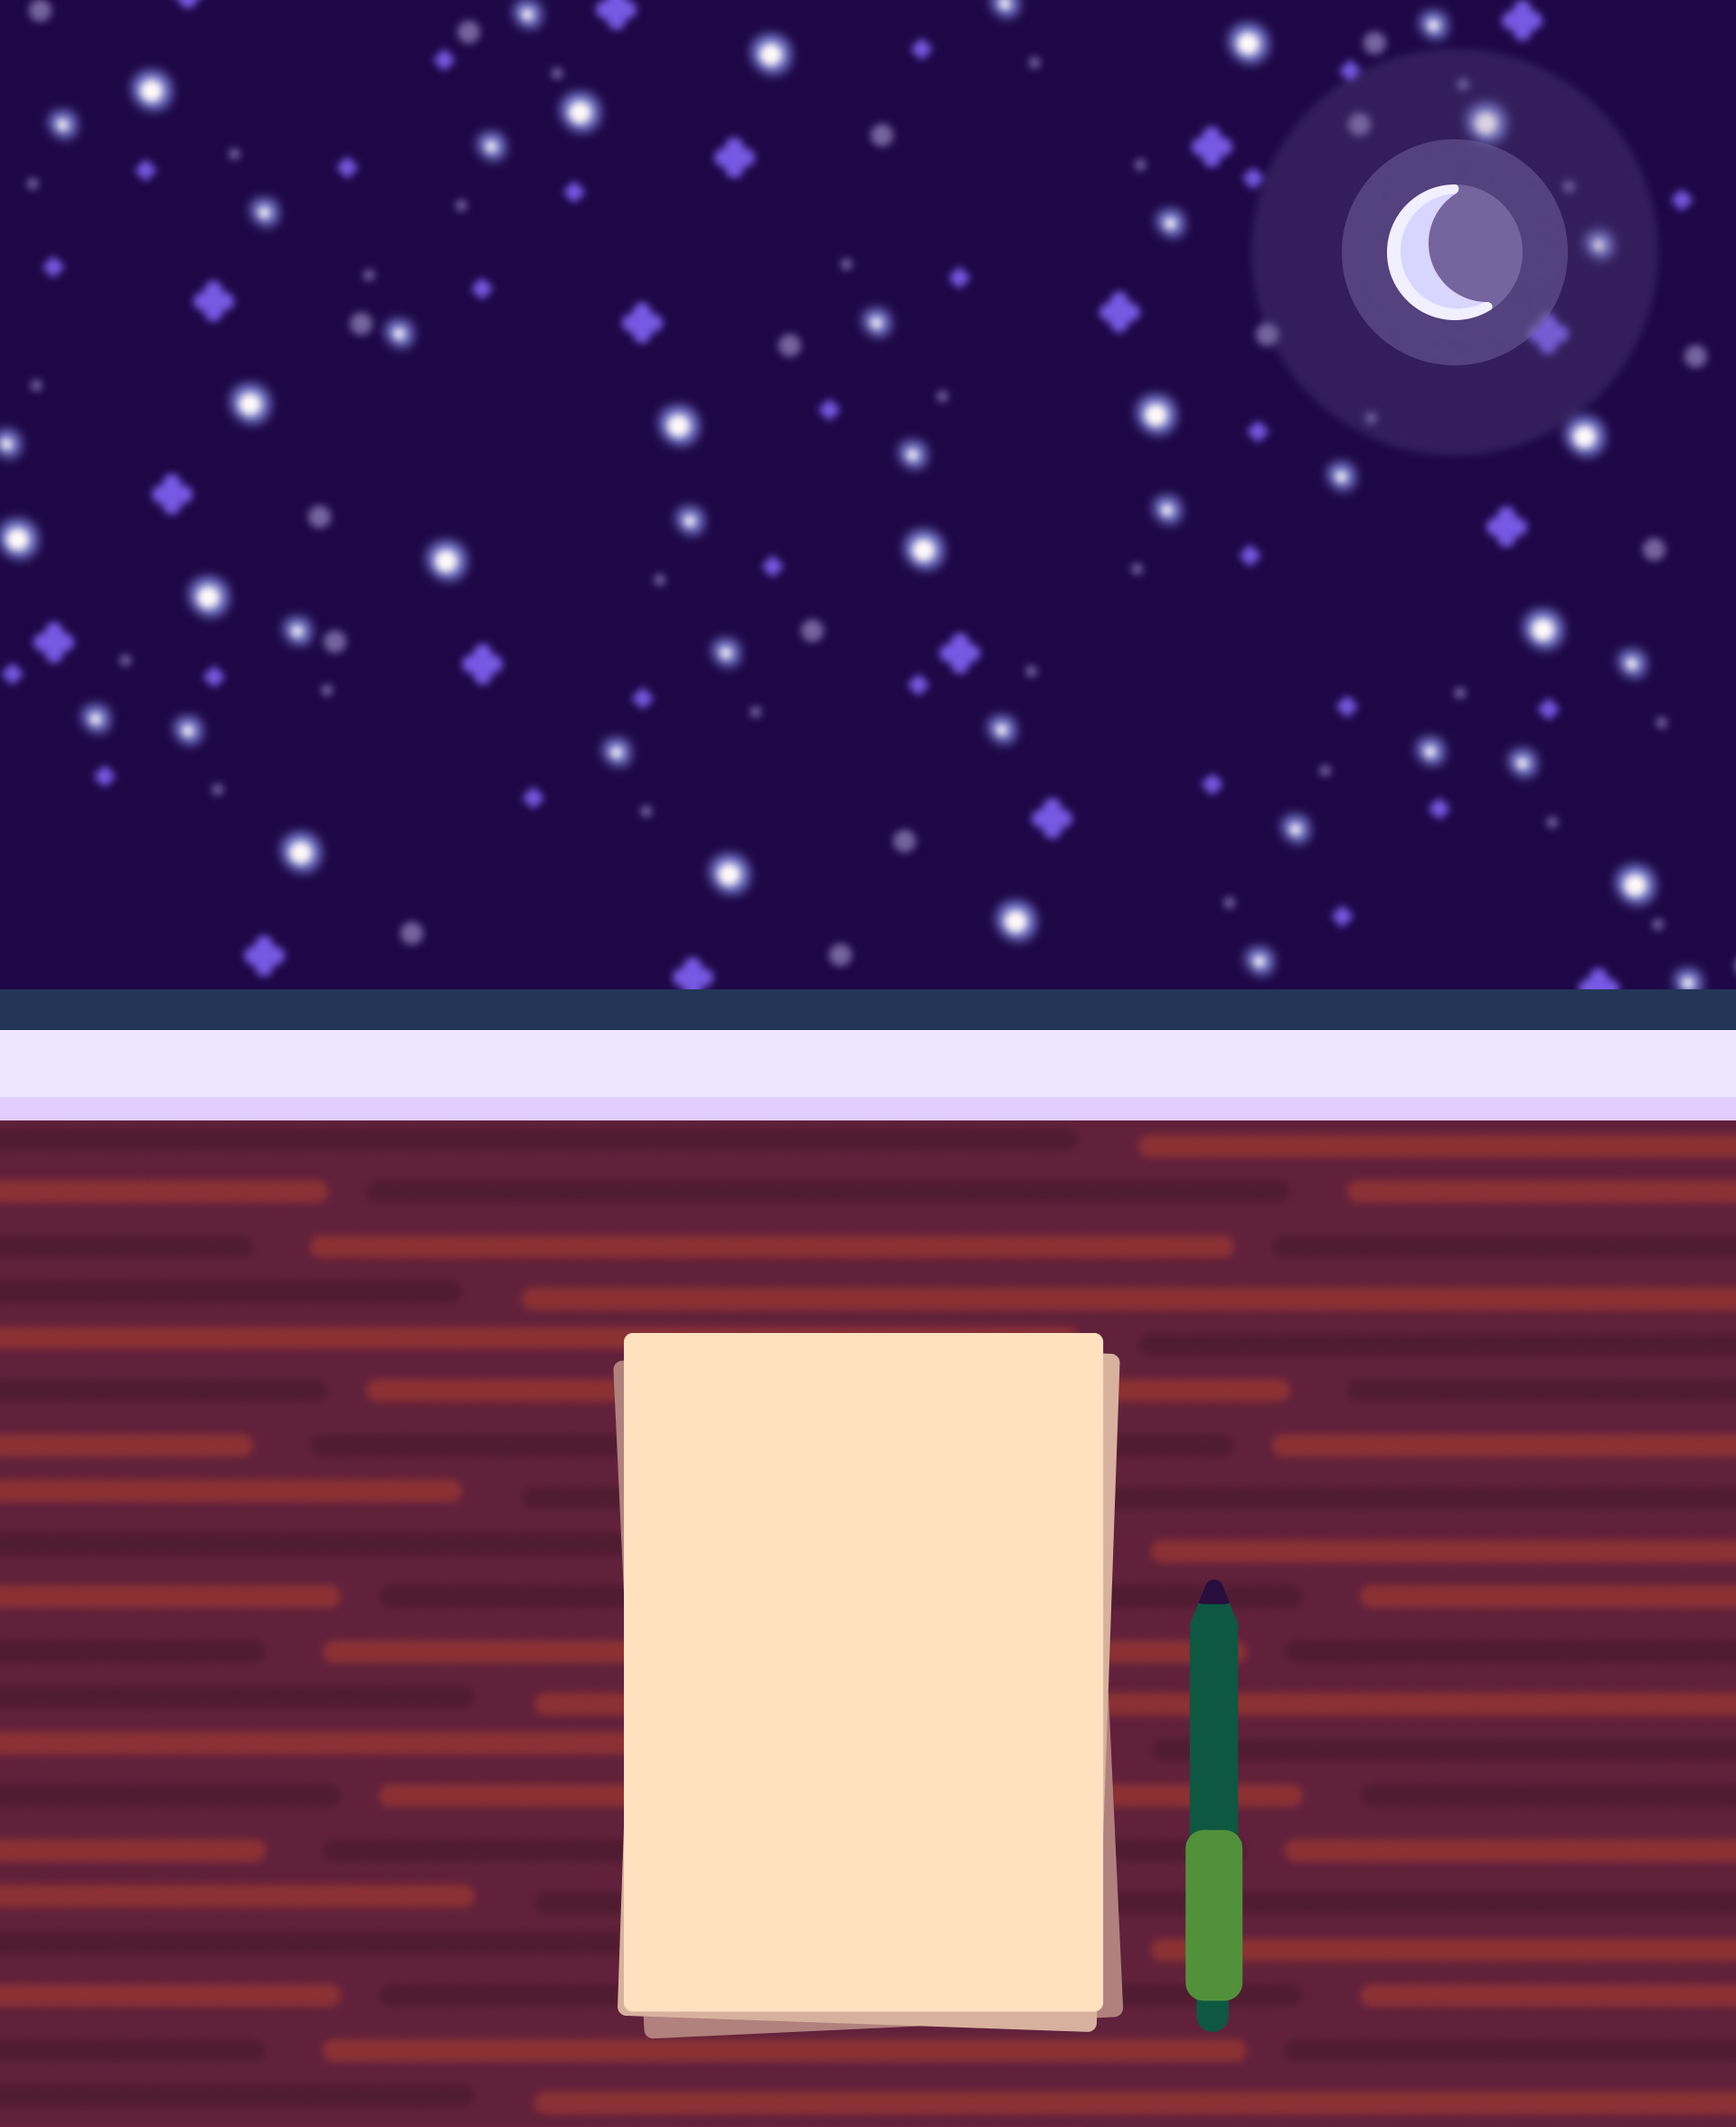
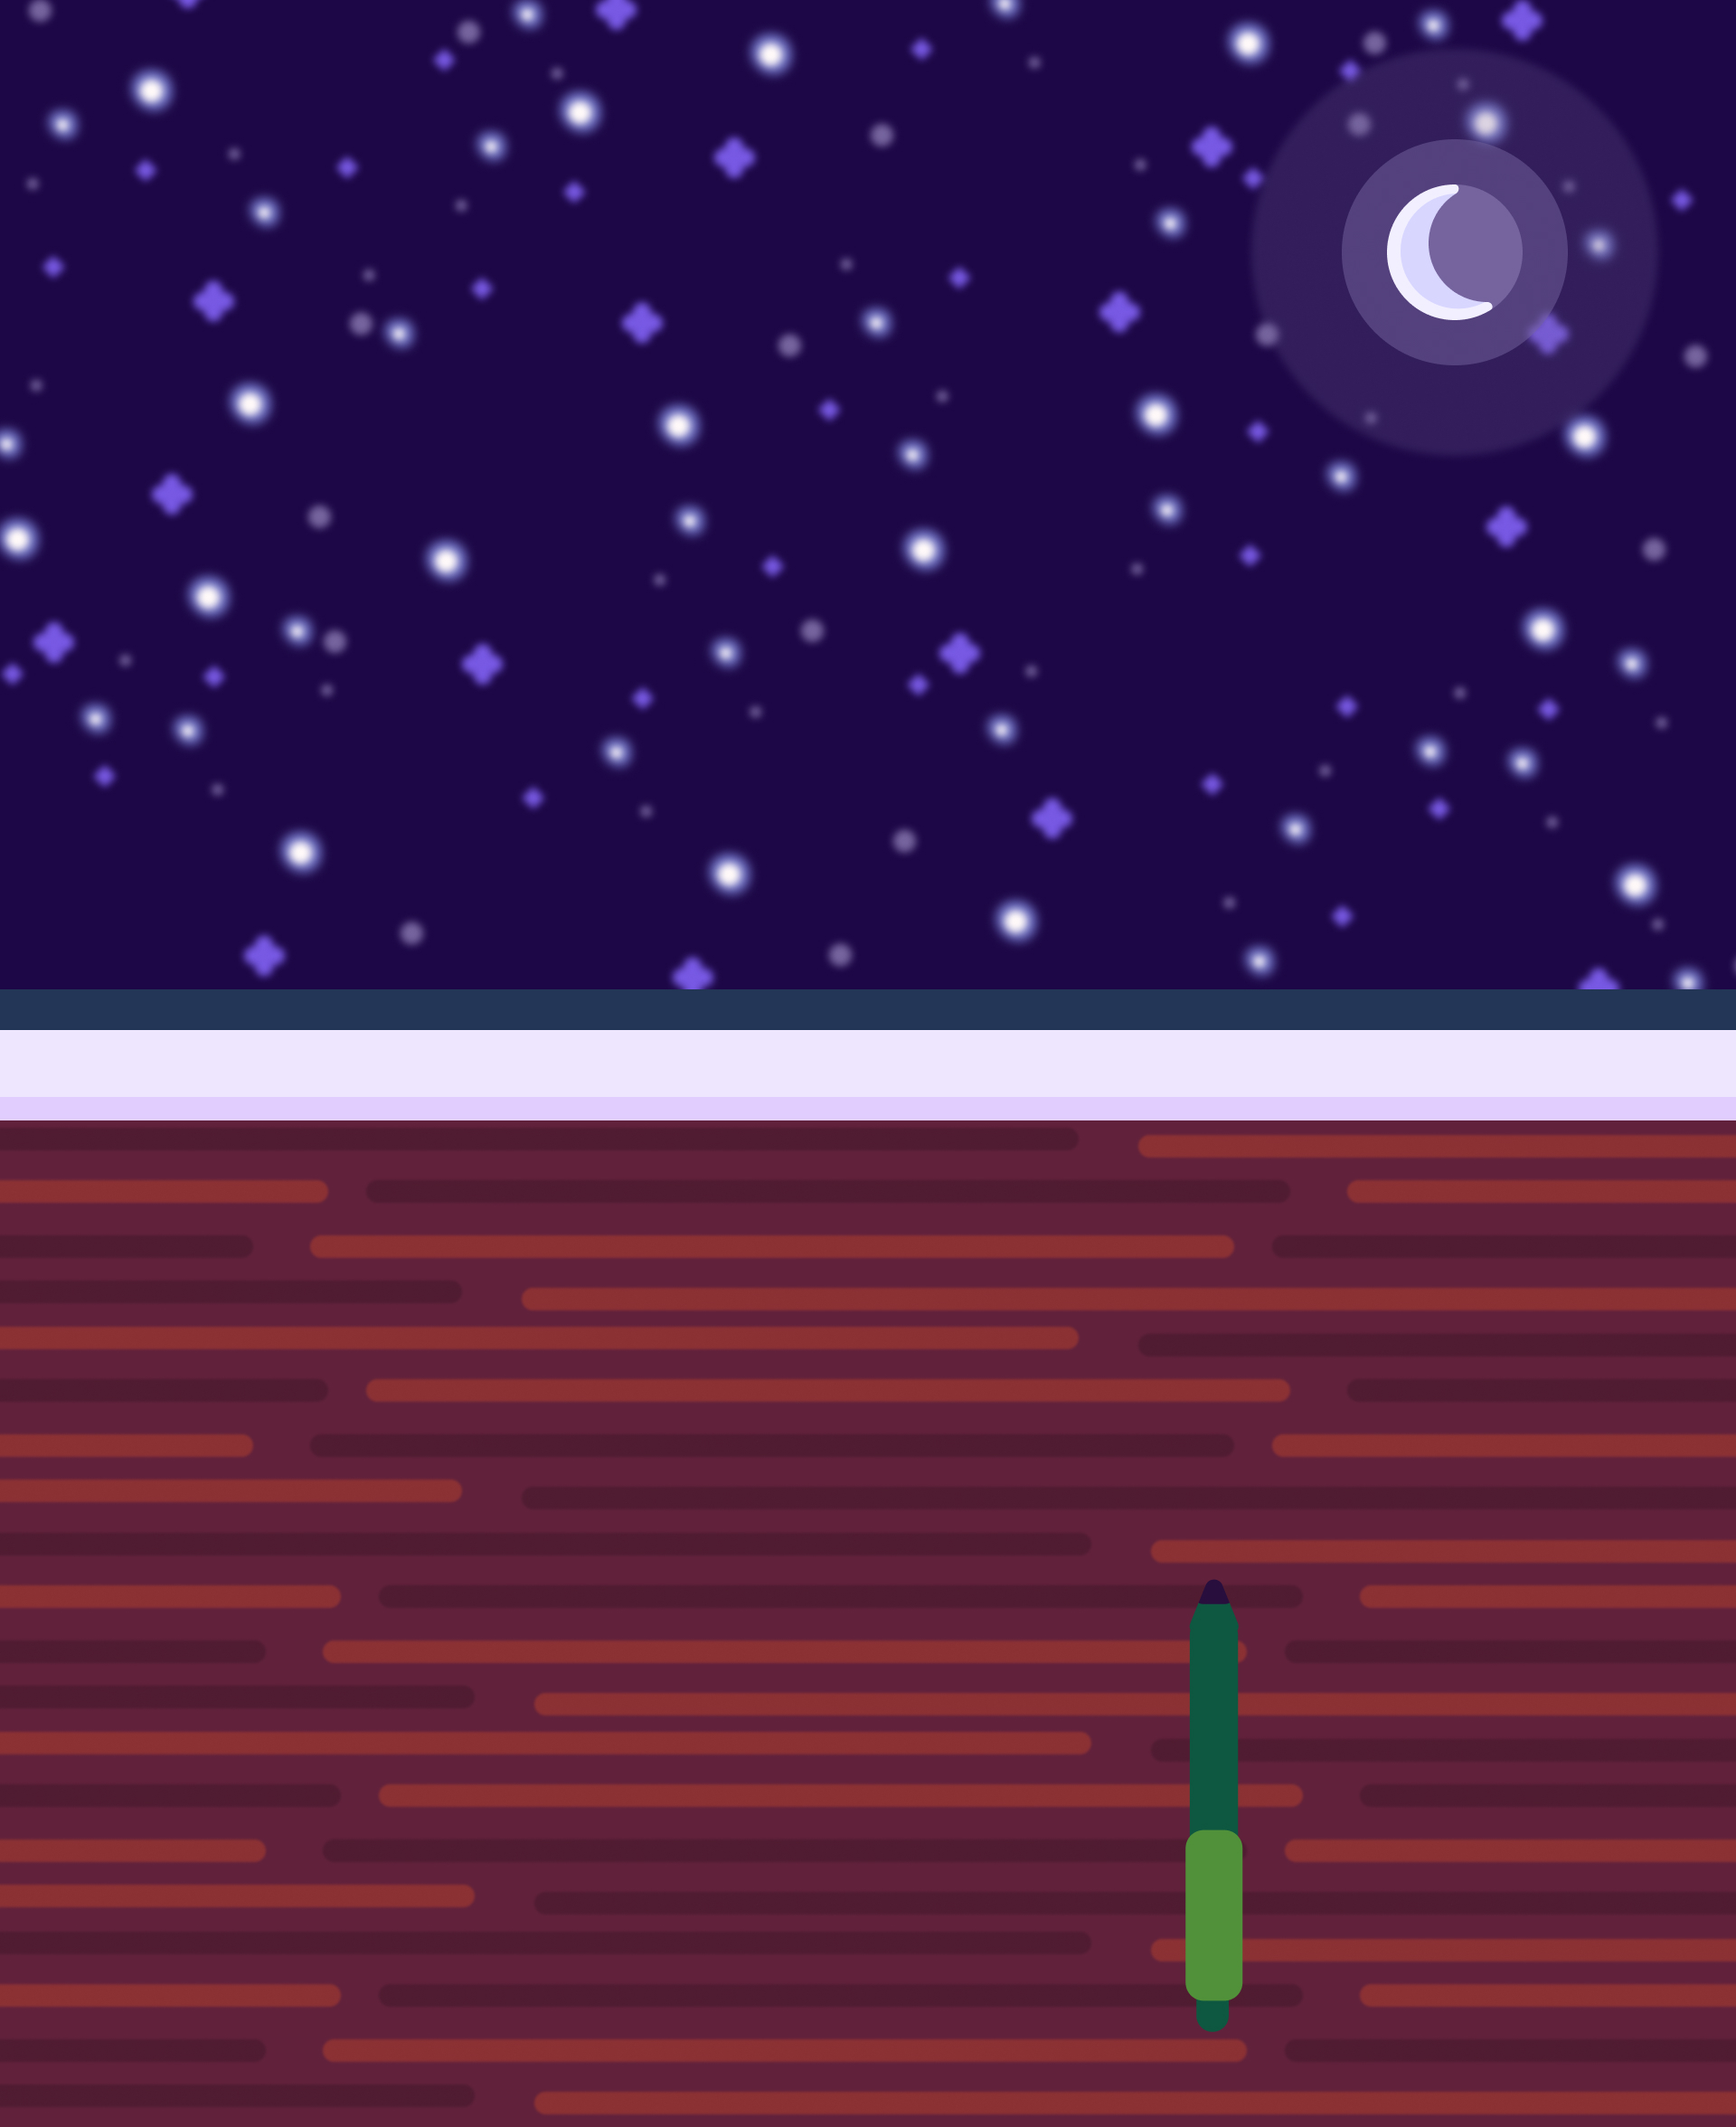
Reality styling + lives img

Changed region(s): [[0.3438, 0.6207, 0.6562, 0.9622]]

diff --git a/css/reality.css b/css/reality.css
@@ -1,0 +1,41 @@
+article:last-of-type > section {
+	position: absolute;
+	left: 50%;
+	transform: translateX(-50%);
+	bottom: 4em;
+
+	width: 50vw;
+	height: 800px;
+
+	/* background: rgba(255, 0, 0, 0.35) url("../img/paper.svg") no-repeat center
+		center; */
+	background: url("../img/paper.svg") no-repeat center center;
+}
+
+article:last-of-type > section > form {
+	position: relative;
+	top: 2em;
+	left: 50%;
+	transform: translateX(-50%);
+
+	width: 17.5em;
+	height: calc(800px - 5em);
+
+	font-size: 1.5em;
+
+	/* background-color: blue; */
+}
+
+article:last-of-type > section > form textarea {
+	position: relative;
+	left: 50%;
+	transform: translateX(-50%);
+
+	margin-top: 2em;
+	border: black 2px solid;
+	border-radius: 10px;
+
+	width: 90%;
+
+	background: none;
+}

diff --git a/css/style.css b/css/style.css
@@ -68,11 +68,13 @@ article:first-of-type div.active {
 LAY-OUT
 ************* */
 article:first-of-type {
-	height: 100vh;
+	height: calc(2352px / 2);
 }
 
 article:last-of-type {
-	height: 100vh;
+	position: relative;
+
+	height: calc(2352px / 2);
 }
 
 /* *************
@@ -82,22 +84,12 @@ main > section:first-of-type {
 	display: flex;
 	gap: 1em;
 
-	position: absolute;
+	position: fixed;
 	top: 3vh;
 	right: 3vw;
 }
 
-main > section:first-of-type div {
+main > section:first-of-type img {
 	width: 3em;
 	height: 3em;
-
-	border: 5px solid transparent;
-	border-radius: 50%;
-
-	background-color: red;
-}
-
-main > section:first-of-type div.loss {
-	border: 5px solid red;
-	background: none;
 }

diff --git a/script/script.js b/script/script.js
@@ -7,7 +7,7 @@ import realityData from "./database.js"
 //
 
 // VARIABLES
-const lives = document.querySelectorAll("main > section:first-of-type div")
+const lives = document.querySelectorAll("main > section:first-of-type img")
 let currentLife = 0
 
 const checkLives = () => {
@@ -16,7 +16,7 @@ const checkLives = () => {
 	}
 	// If the user does not complete the level by typing all the text, they lose a life
 	else if (textArea.value.length != taskText.length) {
-		lives[currentLife].classList.add("loss")
+		lives[currentLife].src = "img/life-lost.svg"
 
 		currentLife++
 	}

diff --git a/index.html b/index.html
@@ -12,11 +12,12 @@
 	<body>
 		<main>
 			<div id="background-img"></div>
+
 			<!-- LIVES -->
 			<section>
-				<div></div>
-				<div></div>
-				<div></div>
+				<img src="img/life.svg"></img>
+				<img src="img/life.svg"></img>
+				<img src="img/life.svg"></img>
 			</section>
 
 			<!-- FANTASY -->
@@ -80,7 +81,7 @@
 				</section>
 
 				<!-- LEVEL 2 -->
-				<section>
+				<section class="hidden">
 					<form>
 						<label>Reality - Level 1</label>
 						<textarea id="myTextarea" rows="10" cols="30" readonly></textarea>

diff --git a/css/fantasy.css b/css/fantasy.css
@@ -1,10 +1,8 @@
-/* *************
-STARS
-************* */
 article:first-of-type > section {
 	position: relative;
 	top: 2em;
-	left: calc(50% - (50vw / 2));
+	left: 50%;
+	transform: translateX(-50%);
 	bottom: 2em;
 
 	width: 50vw;
